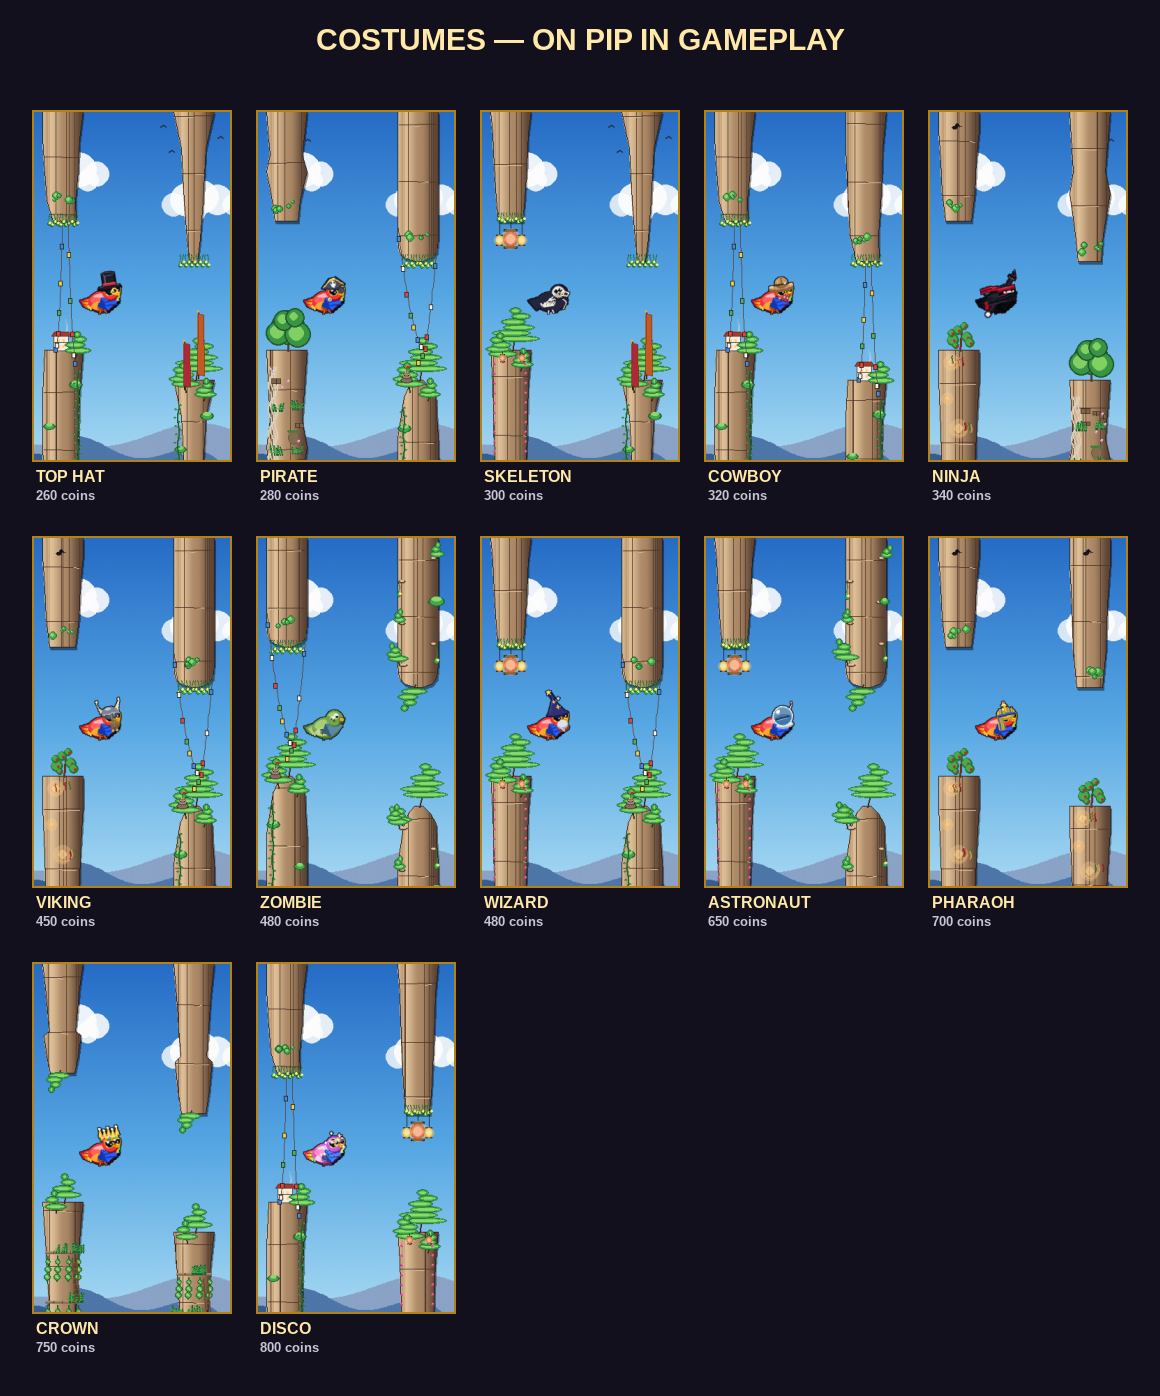
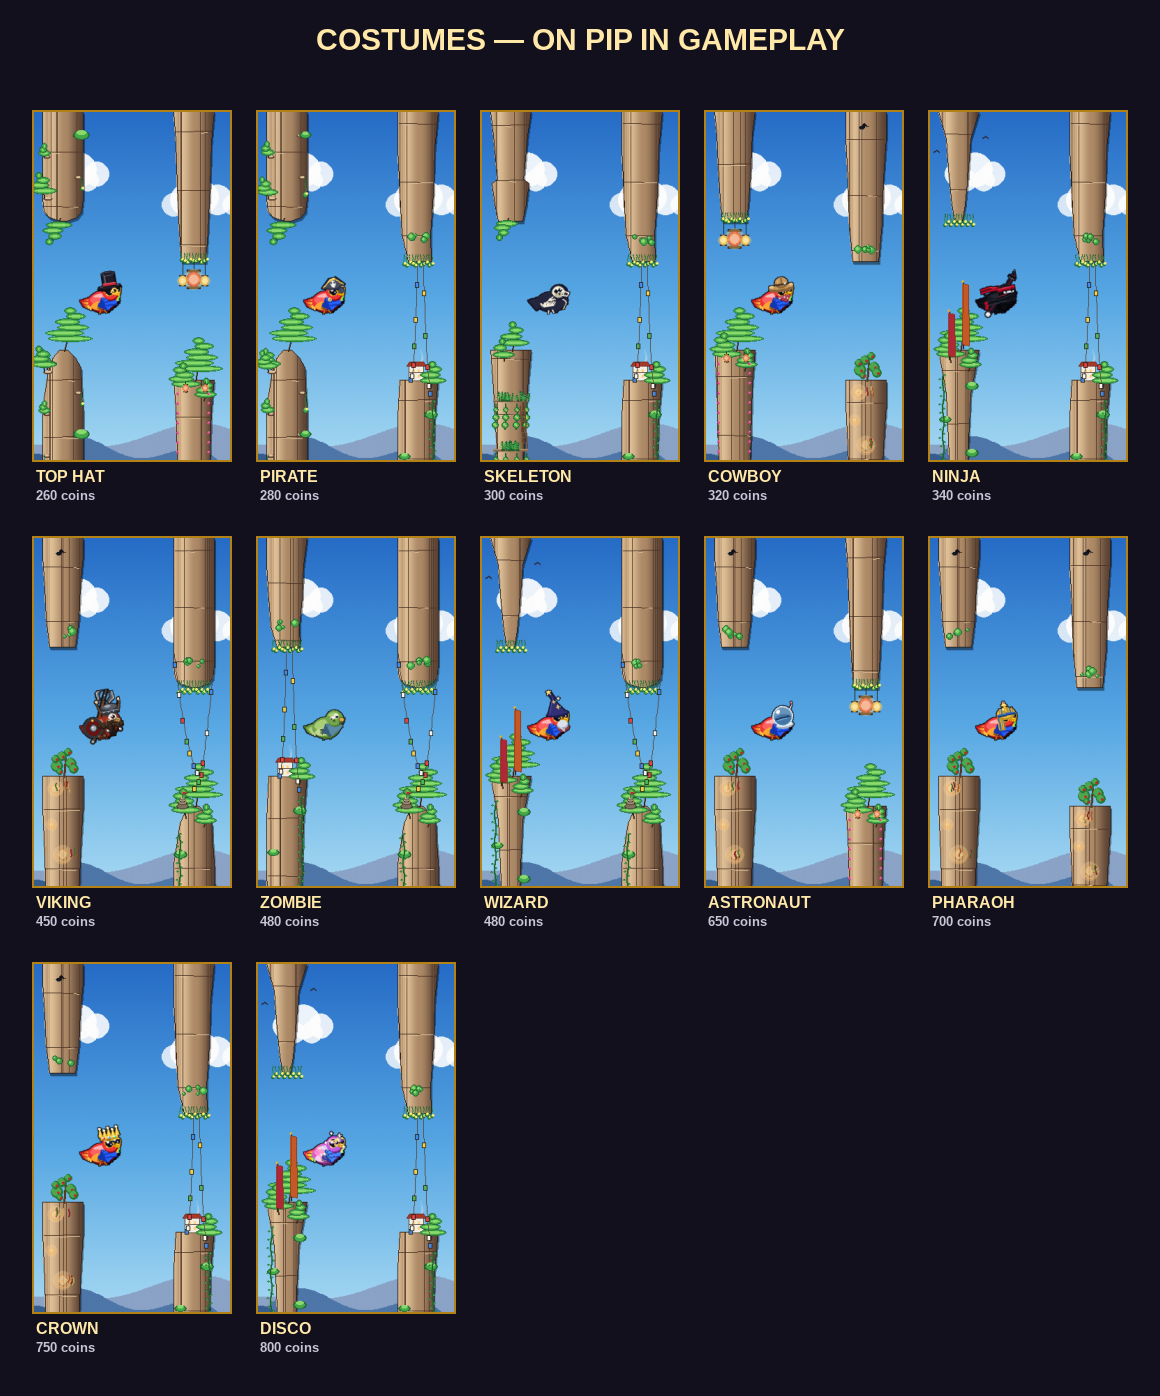
Ship BLOODAXE bearded raider as the VIKING costume
Replace the weak helmet+beard viking with the approved rust-raider redesign:
whole macaw re-plumaged auburn, regular macaw eye + hooked beak kept visible
under a raised horned spangenhelm, a braided moustache dropping to two metal
beads over a chin beard, and a twin-bit axe stowed diagonally on the back
behind the round shield. Item id/name (skin_viking / VIKING) unchanged; the
axe sits behind the body so the skin uses its own compose.

Claude-Session: https://claude.ai/code/session_01TcD2m4ebQpiVFtZBbQdouL

diff --git a/game/store_skins.py b/game/store_skins.py
@@ -521,66 +521,241 @@ get_pharaoh_parrot = _make_skin(_paint_pharaoh)
 
 
 # ─────────────────────────────────────────────────────────────────────────────
-# 6 · VIKING (ship-candidate) — widen horn TIPS 1px so they read at 40px;
-#     cool/darken the braided beard so it separates from the scarlet body
-#     (let the bright helmet carry the read). Horns anchored to the brow band.
+# 6 · VIKING — a rust-raider macaw: the whole bird is re-plumaged warm auburn
+#     through the palette system, then it reads as a NORMAL parrot wearing
+#     Viking gear — the bare macaw eye + hooked beak stay in the open under a
+#     RAISED horned spangenhelm, a long braided moustache drops to two metal
+#     beads over a chin beard, and a twin-bit axe is STOWED diagonally on the
+#     back behind the round shield (carried, not wielded). The body must hold a
+#     crisp edge on a bright sky, so the silhouette is wrapped in a near-black
+#     outline instead of the default 1px line. Axe is drawn BEHIND the body, so
+#     this skin uses its own compose rather than _make_skin's body-first order.
 # ─────────────────────────────────────────────────────────────────────────────
-_VK_IRON   = (126, 134, 148)
-_VK_IRON_D = (74, 80, 92)
-_VK_IRON_H = (198, 206, 218)
-_VK_HORN   = (240, 230, 206)
-_VK_HORN_D = (184, 172, 142)
-_VK_BEARD  = (150, 120, 70)        # cooler/darker tan — off the scarlet
-_VK_BEARD_D = (104, 80, 44)
-_VK_BEAD   = (210, 180, 90)
+_VK_RUST       = (154, 51, 34)
+_VK_RUST_DK    = (94, 28, 18)
+_VK_IRON       = (90, 94, 104)
+_VK_IRON_DK    = (52, 56, 63)
+_VK_IRON_HI    = (166, 174, 184)
+_VK_RING       = (176, 182, 192)
+_VK_FUR        = (74, 53, 38)
+_VK_FUR_HI     = (122, 90, 64)
+_VK_BEARD      = (36, 26, 20)
+_VK_BEARD_HI   = (62, 44, 32)
+_VK_SHIELD_RED = (110, 20, 16)
+_VK_BRASS      = (199, 154, 58)
+_VK_BONE       = (214, 198, 168)
+_VK_HAFT       = (94, 56, 32)
+_VK_HAFT_HI    = (150, 96, 56)
+_VK_KEY        = (26, 20, 16)            # opaque face/axe keyline
+_VK_OUTLINE    = (26, 20, 16, 235)       # near-black silhouette outline
+
+# Full rusty-auburn re-plumage of the macaw; the deepest RUST_DK owns the line
+# work, and lenses are dropped (the helm brow + facial hair own the face — the
+# bare eye is painted back on in _viking_face).
+_VK_PAL = _pal(
+    tail=[(118, 38, 26), (138, 46, 30), (158, 58, 40), (180, 80, 56)],
+    tail_line=_VK_RUST_DK, body_shadow=(112, 34, 22), body_main=_VK_RUST,
+    body_chest=(182, 84, 58), body_belly=(122, 40, 24), sheen=(255, 220, 200, 90),
+    wing_main=(140, 46, 30), wing_dark=(86, 26, 16), wing_tip=(196, 100, 72),
+    wing_secondary=None, wing_highlight=(214, 130, 100), head_shadow=(112, 34, 22),
+    head_main=_VK_RUST, head_cheek=(182, 84, 58), head_crown=(168, 64, 44),
+    lens_frame=(120, 40, 26), lens_body=(40, 22, 16), lens_tint=None,
+    lens_glint=None, beak_main=(196, 150, 96), beak_dark=(120, 84, 44),
+    beak_gloss=(228, 200, 150), foot=(120, 78, 44),
+)
 
 
-def _paint_viking(surf, _a):
+def _viking_base(angle_deg):
+    return _build_parrot_with_palette(angle_deg, _VK_PAL, draw_lenses=False)
+
+
+def _viking_back(surf):
+    # Round shield on the back: a proud iron rim, deep-red field, plank seams, a
+    # single brass stud and a bright boss; then a scalloped fur ruff bridging the
+    # neck. The shield is drawn AFTER the axe so it covers the haft's middle.
+    sx, sy, sr = HX - 26, HY + 11, 13
+    pygame.draw.circle(surf, _VK_IRON_DK, (sx, sy), sr + 2)
+    pygame.draw.circle(surf, _VK_SHIELD_RED, (sx, sy), sr - 2)
+    for dx in (-6, 0, 6):
+        pygame.draw.line(surf, _VK_RUST_DK, (sx + dx, sy - sr + 4), (sx + dx, sy + sr - 4), 1)
+    pygame.draw.circle(surf, _VK_BRASS, (sx, sy - sr + 2), 2)
+    pygame.draw.circle(surf, (240, 210, 130), (sx, sy - sr + 2), 1)
+    pygame.draw.circle(surf, _VK_IRON_DK, (sx, sy), 6)
+    pygame.draw.circle(surf, _VK_IRON_HI, (sx, sy), 5)
+    pygame.draw.circle(surf, _VK_IRON_DK, (sx, sy), 5, 1)
+    pygame.draw.circle(surf, (255, 255, 255), (sx - 1, sy - 1), 1)
+    ruff_y = HY + 9
+    for i in range(-3, 4):
+        fx = HX - 1 + i * 5
+        r = 5 if i % 2 == 0 else 4
+        pygame.draw.circle(surf, _VK_BEARD, (fx, ruff_y + 1), r)
+        pygame.draw.circle(surf, _VK_FUR, (fx, ruff_y), r - 1)
+    for i in range(-1, 2):
+        pygame.draw.circle(surf, _VK_FUR_HI, (HX - 1 + i * 5, ruff_y - 1), 1)
+
+
+def _viking_helm(surf):
+    # Horned spangenhelm with the dome + brow lifted 4px and a short 2px nasal,
+    # so the bare macaw eye (≈(50,40)) and hooked beak sit in the open below the
+    # brow. Boot cuffs on the feet.
     cy = CROWN_Y
-    # Darker braided beard, kept compact so the helmet dominates.
-    pygame.draw.ellipse(surf, _VK_BEARD_D, (HX - 3, HY + 5, 16, 12))
-    pygame.draw.ellipse(surf, _VK_BEARD, (HX - 2, HY + 4, 14, 10))
-    for bx in (HX + 1, HX + 7):
-        for j in range(3):
-            yy = HY + 11 + j * 3
-            pygame.draw.circle(surf, _VK_BEARD, (bx, yy), 2)
-            pygame.draw.circle(surf, _VK_BEARD_D, (bx, yy), 2, 1)
-    pygame.draw.circle(surf, _VK_BEAD, (HX + 1, HY + 19), 2)
-    pygame.draw.circle(surf, _VK_BEAD, (HX + 7, HY + 19), 2)
-
-    # Two curved horns sweeping up & outward, with WIDER tips, rooted in the
-    # brow band so the rotated composite keeps them on the head mass.
     for sgn, hx0 in ((-1, HX - 9), (1, HX + 9)):
         tipx = hx0 + sgn * 6
-        tip = (tipx, cy - 16)
         mid = (hx0 + sgn * 5, cy - 6)
-        pygame.draw.polygon(surf, _VK_HORN_D,
-                            [(hx0 - 4, cy + 2), (hx0 + 4, cy + 2), mid,
-                             (tipx + sgn * 2, cy - 16)])
-        pygame.draw.polygon(surf, _VK_HORN,
-                            [(hx0 - 3, cy + 1), (hx0 + 3, cy + 1),
-                             (mid[0], mid[1] + 1),
-                             (tipx + sgn * 2, cy - 15)])
-        # Bright wide tip cap so the point survives downscale.
-        pygame.draw.circle(surf, _VK_HORN, (tipx + sgn, cy - 15), 2)
-        pygame.draw.line(surf, _VK_HORN_D, (hx0 - 1, cy - 3),
-                         (hx0 + 2, cy - 3), 1)
-
-    # Iron dome cap (bright — carries the read).
-    pygame.draw.ellipse(surf, _VK_IRON_D, (HX - 12, cy - 6, 25, 18))
-    pygame.draw.ellipse(surf, _VK_IRON, (HX - 11, cy - 6, 23, 15))
-    pygame.draw.ellipse(surf, _VK_IRON_H, (HX - 6, cy - 5, 9, 4))
-    # Riveted brow band.
-    pygame.draw.line(surf, _VK_IRON_D, (HX - 11, cy + 5), (HX + 12, cy + 4), 4)
-    pygame.draw.line(surf, _VK_IRON_H, (HX - 11, cy + 4), (HX + 12, cy + 3), 1)
+        _poly(surf, _VK_BEARD, [(hx0 - 4, cy + 2), (hx0 + 4, cy + 2), mid, (tipx + sgn * 2, cy - 16)])
+        _poly(surf, _VK_FUR_HI, [(hx0 + sgn * 3, cy + 1), (hx0 + sgn * 4, cy + 1),
+                                 (mid[0] + sgn, mid[1] + 1), (tipx + sgn * 2, cy - 15)])
+        pygame.draw.circle(surf, _VK_FUR_HI, (tipx + sgn, cy - 15), 3)
+        pygame.draw.circle(surf, _VK_BONE, (tipx + sgn, cy - 15), 2)
+        pygame.draw.circle(surf, (244, 234, 210), (tipx + sgn - 1, cy - 16), 1)
+    dy = -4
+    pygame.draw.ellipse(surf, _VK_IRON_DK, (HX - 12, cy - 6 + dy, 25, 18))
+    pygame.draw.ellipse(surf, _VK_IRON, (HX - 11, cy - 6 + dy, 23, 8))
+    pygame.draw.ellipse(surf, _VK_IRON_HI, (HX - 6, cy - 5 + dy, 9, 4))
+    pygame.draw.line(surf, _VK_IRON_DK, (HX - 11, cy + 5 + dy), (HX + 12, cy + 4 + dy), 4)
+    pygame.draw.line(surf, _VK_IRON_HI, (HX - 11, cy + 4 + dy), (HX + 12, cy + 3 + dy), 1)
     for rx in (HX - 8, HX - 1, HX + 6):
-        pygame.draw.circle(surf, _VK_IRON_H, (rx, cy + 5), 1)
-    # Nose-guard.
-    pygame.draw.rect(surf, _VK_IRON_D, (HX + 1, cy + 4, 3, 11))
-    pygame.draw.rect(surf, _VK_IRON, (HX + 1, cy + 4, 2, 10))
+        pygame.draw.circle(surf, _VK_IRON_HI, (rx, cy + 5 + dy), 1)
+    nx = HX + 1
+    pygame.draw.rect(surf, _VK_IRON_DK, (nx, cy + 4 + dy, 2, 5))
+    pygame.draw.line(surf, _VK_IRON, (nx, cy + 4 + dy), (nx, cy + 8 + dy), 1)
+    for fx, fy in ((27, 65), (35, 65)):
+        pygame.draw.circle(surf, _VK_BEARD, (fx, fy + 1), 3)
+        pygame.draw.circle(surf, _VK_FUR_HI, (fx, fy), 2)
 
 
-get_viking_parrot = _make_skin(_paint_viking)
+def _viking_face(surf):
+    # The bare macaw eye, then a dark chin beard, a lighter walrus moustache band
+    # dropping two braids to metal beads, the redrawn hooked beak on top, and the
+    # beads. A 1px keyline edges every facial-hair mass so it separates from the
+    # body. The light-on-dark stack (light moustache over dark chin) is what
+    # keeps the 'stache + beads legible at 40px.
+    ex, ey = 50, 40
+    _aaellipse(surf, (250, 243, 236), (ex, ey), 6, 5)
+    pygame.draw.line(surf, (236, 210, 205), (ex - 5, ey - 2), (ex + 5, ey - 2), 1)
+    pygame.draw.line(surf, (236, 210, 205), (ex - 5, ey + 2), (ex + 5, ey + 2), 1)
+    pygame.draw.circle(surf, (40, 26, 30), (ex + 1, ey), 3)
+    pygame.draw.circle(surf, (15, 10, 12), (ex + 1, ey), 3, 1)
+    pygame.draw.circle(surf, (255, 255, 255), (ex, ey - 1), 1)
+
+    # Chin beard — a narrow rounded tuft hanging from the chin between the two
+    # braids; a doubled keyline strengthens its edge against the body.
+    cx0, cy0 = 47, 53
+    chin = [(cx0 - 4, cy0), (cx0 - 5, cy0 + 6), (cx0 - 2, cy0 + 11),
+            (cx0 + 3, cy0 + 11), (cx0 + 5, cy0 + 6), (cx0 + 4, cy0), (cx0, cy0 - 1)]
+    _poly(surf, _VK_KEY, [(x, y + 2) for x, y in chin])
+    _poly(surf, _VK_KEY, [(x, y + 1) for x, y in chin])
+    _poly(surf, _VK_BEARD, chin)
+    _poly(surf, _VK_BEARD_HI, [(cx0 - 4, cy0 + 1), (cx0 - 1, cy0 + 1),
+                              (cx0 - 2, cy0 + 8), (cx0 - 5, cy0 + 6)])
+
+    # Walrus moustache — a compact lighter band under the beak over a keyline.
+    mx, my = 50, 45
+    band = [(mx - 8, my - 1), (mx - 9, my + 3), (mx - 5, my + 4), (mx - 1, my + 2),
+            (mx + 4, my + 2), (mx + 8, my + 4), (mx + 9, my + 1), (mx + 7, my - 1), (mx, my - 2)]
+    _poly(surf, _VK_KEY, [(x, y + 1) for x, y in band])
+    _poly(surf, _VK_BEARD_HI, band)
+    pygame.draw.lines(surf, _VK_BONE, False,
+                      [(mx - 7, my - 1), (mx - 1, my - 2), (mx + 4, my - 2), (mx + 7, my)], 1)
+
+    # Two braids dropping from the band corners to the beads.
+    for sgn, bx0 in ((-1, mx - 8), (1, mx + 8)):
+        braid = [(bx0, my + 2), (bx0 + sgn, my + 5), (bx0 + sgn, my + 12),
+                 (bx0 - sgn * 2, my + 12), (bx0 - sgn * 2, my + 4)]
+        _poly(surf, _VK_KEY, [(x, y + 1) for x, y in braid])
+        _poly(surf, _VK_BEARD_HI, braid)
+        pygame.draw.line(surf, _VK_BEARD, (bx0, my + 5), (bx0, my + 11), 1)
+
+    # Redraw the hooked beak on top so it always pokes through between the braids.
+    beak_pts = [(55, 41), (61, 44), (58, 48), (52, 46)]
+    pygame.draw.polygon(surf, (196, 150, 96), beak_pts)
+    pygame.draw.polygon(surf, (120, 84, 44), beak_pts, 1)
+    pygame.draw.line(surf, (228, 200, 150), (55, 42), (59, 44), 1)
+    pygame.draw.line(surf, (120, 84, 44), (52, 44), (58, 45), 1)
+
+    # Metal beads capping each braid tip.
+    for bdx, bdy in ((mx - 9, my + 14), (mx + 9, my + 14)):
+        pygame.draw.circle(surf, _VK_KEY, (bdx, bdy), 3)
+        pygame.draw.circle(surf, _VK_RING, (bdx, bdy), 2)
+        pygame.draw.circle(surf, (255, 255, 255), (bdx - 1, bdy - 1), 1)
+
+
+def _viking_axe(surf):
+    # Twin-bit axe slung diagonally across the back (butt low past the tail, head
+    # high past the back shoulder into open sky). Each bit is a crescent held off
+    # the haft by a slim socket, so a wedge of open sky bites between bit and
+    # socket — that negative-space notch, not a painted line, splits the head
+    # into a clean "><" twin-crescent. Drawn BEHIND the body.
+    blade, blade_dk, blade_hi = _VK_IRON, _VK_IRON_DK, _VK_IRON_HI
+    lo = (HX - 30, HY + 30)
+    hi = (HX - 3, CROWN_Y - 23)
+    dx, dy = hi[0] - lo[0], hi[1] - lo[1]
+    blen = math.hypot(dx, dy)
+    ux, uy = dx / blen, dy / blen
+    px, py = -uy, ux
+
+    hx0, hy0 = lo
+    hx1, hy1 = hi[0] - ux * 8, hi[1] - uy * 8
+    pygame.draw.line(surf, _VK_KEY, (hx0, hy0), (hx1, hy1), 6)
+    pygame.draw.line(surf, _VK_HAFT, (hx0, hy0), (hx1, hy1), 4)
+    pygame.draw.line(surf, _VK_HAFT_HI, (hx0 + px, hy0 + py), (hx1 + px, hy1 + py), 1)
+    for t in (0.30, 0.55, 0.80):
+        wx, wy = hx0 + (hx1 - hx0) * t, hy0 + (hy1 - hy0) * t
+        pygame.draw.line(surf, blade_dk, (wx - px * 2, wy - py * 2), (wx + px * 2, wy + py * 2), 1)
+    pygame.draw.circle(surf, blade_dk, (int(lo[0]), int(lo[1])), 3)
+    pygame.draw.circle(surf, blade_hi, (int(lo[0]), int(lo[1])), 2)
+
+    tx, ty = hi
+
+    def L(a, b):
+        return (tx + ux * a + px * b, ty + uy * a + py * b)
+
+    for side in (-1, 1):
+        bit = [L(8, side * 4), L(8, side * 8), L(4, side * 12), L(0, side * 13),
+               L(-4, side * 12), L(-8, side * 8), L(-8, side * 4), L(-5, side * 7),
+               L(0, side * 8), L(5, side * 7)]
+        _poly(surf, blade_dk, bit)
+        facet = [L(6, side * 6), L(6, side * 9), L(0, side * 11),
+                 L(-6, side * 9), L(-6, side * 6), L(0, side * 9)]
+        _poly(surf, blade, facet)
+        pygame.draw.lines(surf, blade_hi, False, [L(8, side * 8), L(0, side * 13), L(-8, side * 8)], 2)
+        pygame.draw.line(surf, (255, 255, 255), L(0, side * 13), L(0, side * 12), 1)
+    pygame.draw.line(surf, _VK_KEY, L(8, 0), L(-8, 0), 5)
+    pygame.draw.line(surf, blade_dk, L(8, 0), L(-8, 0), 3)
+    pygame.draw.line(surf, blade, L(7, 0), L(-7, 0), 1)
+    pygame.draw.circle(surf, _VK_RING, (int(tx), int(ty)), 1)
+
+
+def _viking_getter():
+    # The axe must sit BEHIND the body, so the body-first order in _make_skin
+    # can't be used: axe -> body -> shield+fur -> raised helm -> face -> outline.
+    state = {"frames": None, "rot": {}}
+
+    def _flat(wing_angle):
+        comp = pygame.Surface((COMPOSITE_W, COMPOSITE_H), pygame.SRCALPHA)
+        _viking_axe(comp)
+        comp.blit(_viking_base(wing_angle), (0, PARROT_DY))
+        _viking_back(comp)
+        _viking_helm(comp)
+        _viking_face(comp)
+        return _add_outline(comp, outline_color=_VK_OUTLINE)
+
+    def getter(frame_idx, tilt_deg):
+        if state["frames"] is None:
+            state["frames"] = [_flat(a) for a in _WING_ANGLES]
+        frames = state["frames"]
+        frame_idx %= len(frames)
+        key = (frame_idx, int(round(tilt_deg / 3.0)) * 3)
+        s = state["rot"].get(key)
+        if s is None:
+            s = pygame.transform.rotozoom(frames[frame_idx], key[1], 1.0)
+            state["rot"][key] = s
+        return s
+
+    return getter
+
+
+get_viking_parrot = _viking_getter()
 
 
 # ─────────────────────────────────────────────────────────────────────────────
